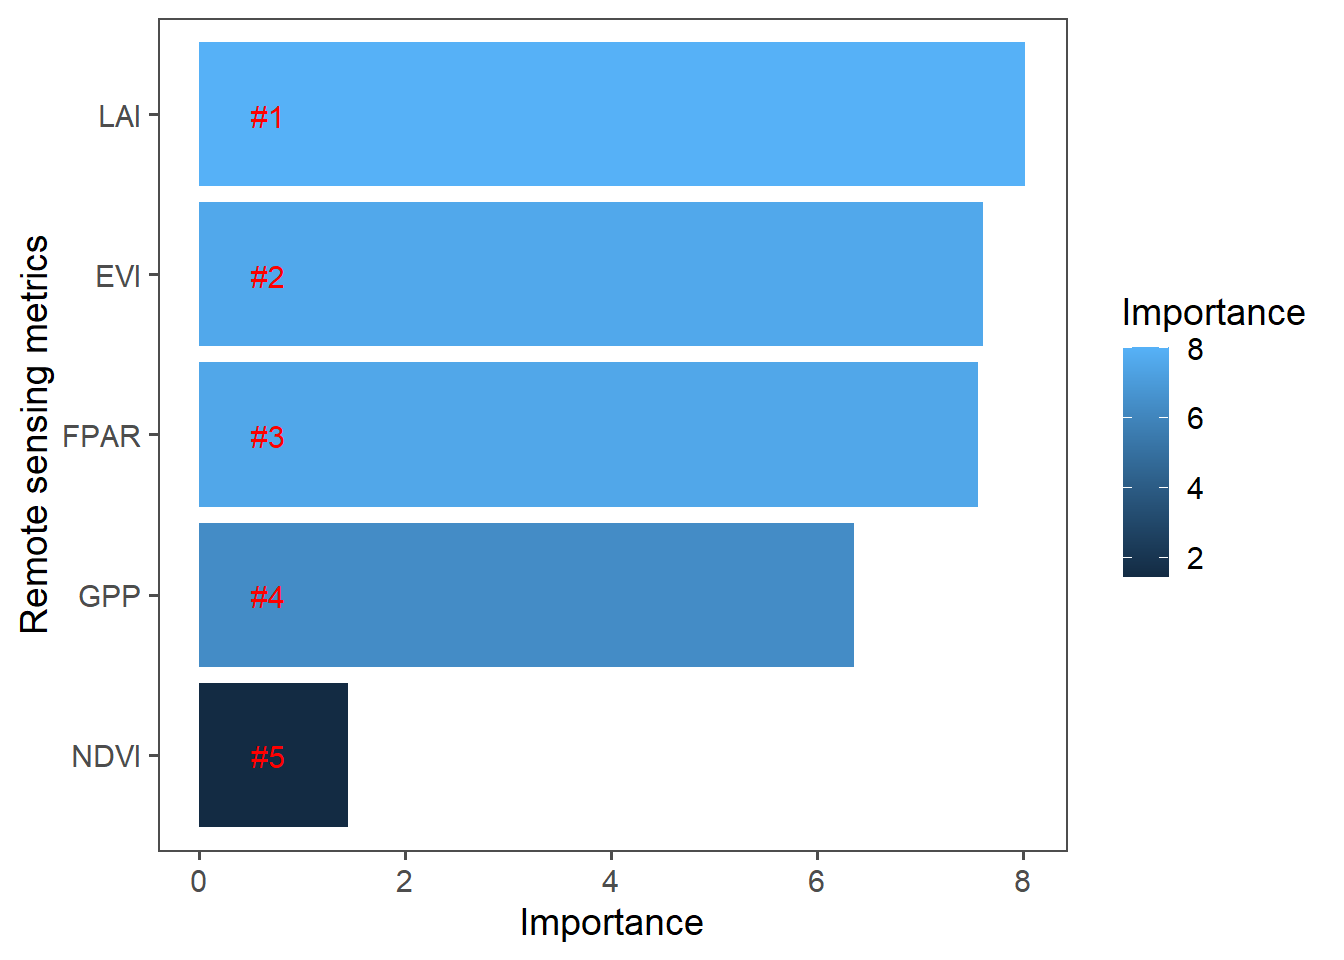
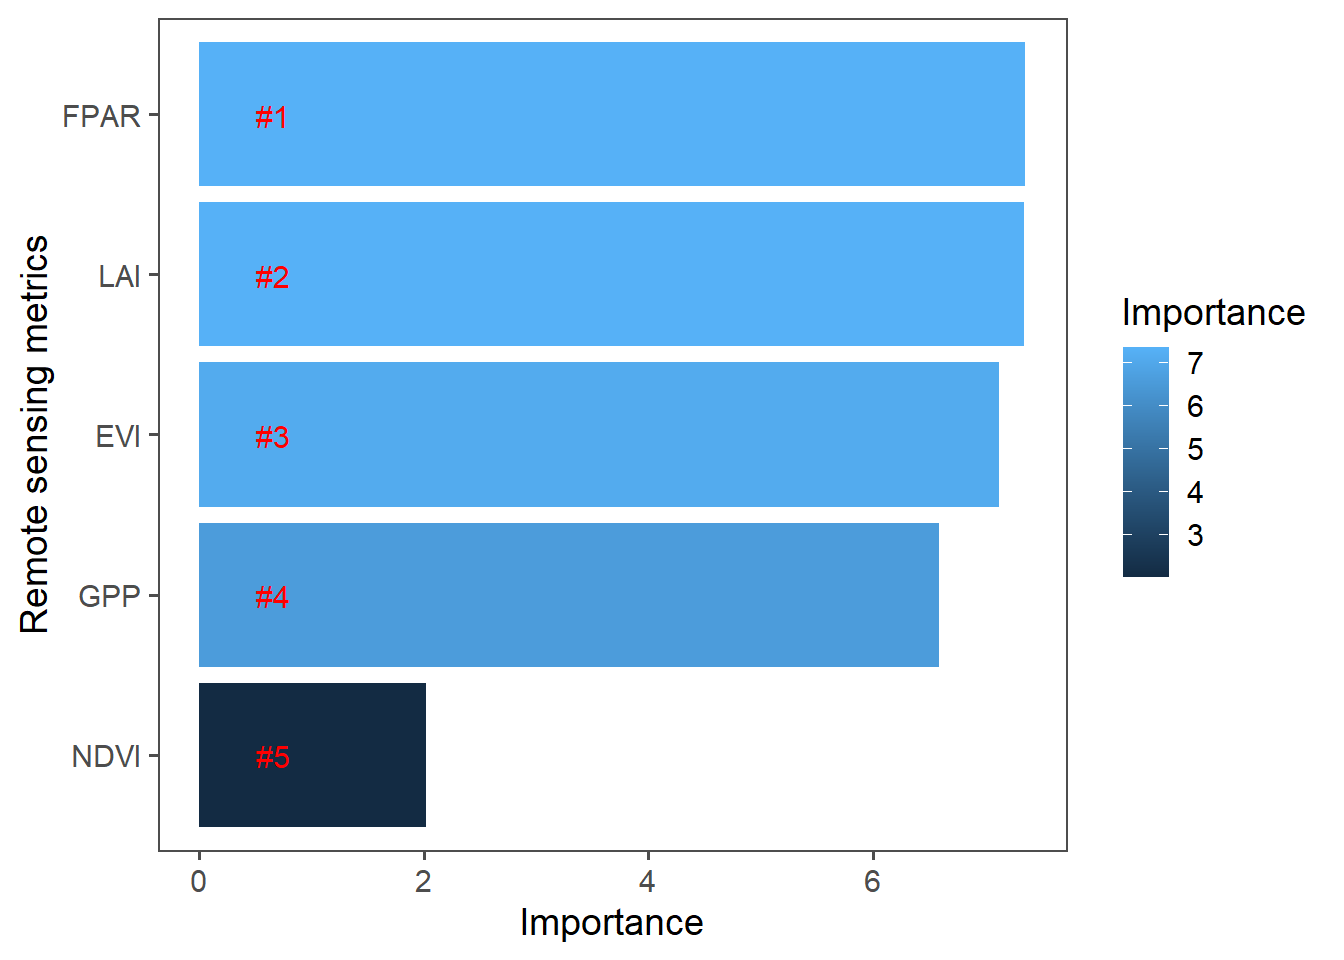
--Updates

diff --git a/yield.html b/yield.html
@@ -650,11 +650,11 @@ rf = randomForest(Yield_tonnes~., data=data[, -1], importance=TRUE, ntree = 500)
 importance &lt;- importance(rf)
 importance</code></pre>
 <pre><code>##       %IncMSE IncNodePurity
-## NDVI 1.444039    1566907492
-## EVI  7.605693    1764283558
-## FPAR 7.564089    2032271516
-## LAI  8.017084    1974147276
-## GPP  6.360913    1547766612</code></pre>
+## NDVI 2.023014    1598126228
+## EVI  7.126598    1709219119
+## FPAR 7.355854    1753478416
+## LAI  7.348654    1896365793
+## GPP  6.589853    1772987638</code></pre>
 <pre class="r"><code>rf</code></pre>
 <pre><code>## 
 ## Call:
@@ -663,8 +663,8 @@ importance</code></pre>
 ##                      Number of trees: 500
 ## No. of variables tried at each split: 1
 ## 
-##           Mean of squared residuals: 356485559
-##                     % Var explained: 41.35</code></pre>
+##           Mean of squared residuals: 363342792
+##                     % Var explained: 40.22</code></pre>
 <pre class="r"><code>varImportance &lt;- data.frame(Variables = row.names(importance), 
                             Importance = round(importance[ ,&#39;%IncMSE&#39;],2))
 
@@ -725,11 +725,11 @@ summary(p.lm)</code></pre>
 rf = randomForest(Yield_tonnes~., data=train, importance=TRUE, ntree = 500)
 importance(rf)</code></pre>
 <pre><code>##       %IncMSE IncNodePurity
-## NDVI 3.710056     765252236
-## EVI  5.604258     707891238
-## FPAR 3.959830     868635168
-## LAI  4.556663     673492076
-## GPP  2.949243     790463031</code></pre>
+## NDVI 3.775943     760541215
+## EVI  4.924809     664381150
+## FPAR 4.038208     953335597
+## LAI  3.036205     655371315
+## GPP  4.337149     796134782</code></pre>
 <pre class="r"><code>rf</code></pre>
 <pre><code>## 
 ## Call:
@@ -738,8 +738,8 @@ importance(rf)</code></pre>
 ##                      Number of trees: 500
 ## No. of variables tried at each split: 1
 ## 
-##           Mean of squared residuals: 399536586
-##                     % Var explained: 7.8</code></pre>
+##           Mean of squared residuals: 398422113
+##                     % Var explained: 8.06</code></pre>
 <pre class="r"><code>#SVM https://rstudio-pubs-static.s3.amazonaws.com/280840_d4fb4f186d454d5dbce3ba2cbe4bbcdb.html#tune-svm-regression-model
 library(e1071)
 svm = svm(Yield_tonnes~., data=train, kernel=&quot;radial&quot;)
@@ -771,7 +771,7 @@ tuneResult</code></pre>
 ##  epsilon cost
 ##        0  0.5
 ## 
-## - best performance: 454040625</code></pre>
+## - best performance: 455161619</code></pre>
 <pre class="r"><code>plot(tuneResult)</code></pre>
 <p><img src="yield_files/figure-html/y8-1.png" width="672" /></p>
 <p>From the SVM tuning graph we can see that the darker the region is the better our model is (because the RMSE is closer to zero in darker regions).</p>
@@ -804,9 +804,9 @@ rmse(observed_y-lm_y)</code></pre>
 <pre><code>## [1] 56.53507</code></pre>
 <pre class="r"><code>#RMSE from random Forest
 rmse(observed_y-rf_y)</code></pre>
-<pre><code>## [1] 19753.25</code></pre>
+<pre><code>## [1] 20048.64</code></pre>
 <pre class="r"><code>MAPE(observed_y, rf_y)</code></pre>
-<pre><code>## [1] 22.26277</code></pre>
+<pre><code>## [1] 22.38854</code></pre>
 <pre class="r"><code>#RMSE from SVM not tuned
 rmse(observed_y-svm_y)</code></pre>
 <pre><code>## [1] 30644.81</code></pre>
@@ -823,9 +823,9 @@ newdata &lt;- index[index$Year==2020, ]
 rf_y &lt;- predict(rf, newdata)
 rf_y</code></pre>
 <pre><code>##       21 
-## 92674.83</code></pre>
+## 92500.98</code></pre>
 <p>The predicted maize yield for the year 2020 is 94010.84 tonnes.</p>
-<p><a href="index.html">PREVIOUS PAGE</a>.</p>
+<p><a href="index.html"><strong>PREVIOUS PAGE</strong></a>.</p>
 </div>
 
 <p> Created 14th May 2021 Copyright &copy; Benson Kenduiywo, Inc. All rights reserved.</p>

diff --git a/indices.html b/indices.html
@@ -484,7 +484,7 @@ scores &lt;- apply(index[,-1], 2, zscore)
 scores &lt;- cbind(index[,&quot;Year&quot;], scores)
 colnames(scores)[1] &lt;- &quot;Year&quot;
 saveRDS(scores, paste0(root,&#39;outputs/2000_2020_MODIS_st_indices.rds&#39;))</code></pre>
-<p><a href="MODISprocessing.html">PREVIOUS PAGE</a> &lt;&lt;&lt; &gt;&gt;&gt; <a href="yield.html">NEXT PAGE</a>.</p>
+<p><a href="MODISprocessing.html"><strong>PREVIOUS PAGE</strong></a> &lt;&lt;&lt; &gt;&gt;&gt; <a href="yield.html"><strong>NEXT PAGE</strong></a>.</p>
 </div>
 
 <p> Created 14th May 2021 Copyright &copy; Benson Kenduiywo, Inc. All rights reserved.</p>

diff --git a/MODISprocessing.html b/MODISprocessing.html
@@ -600,7 +600,7 @@ length(n)</code></pre>
     writeRaster(out, filename, overwrite=TRUE)
   }
 }</code></pre>
-<p><a href="modis.html">PREVIOUS PAGE</a> &lt;&lt;&lt; &gt;&gt;&gt; <a href="indices.html">NEXT PAGE</a>.</p>
+<p><a href="modis.html"><strong>PREVIOUS PAGE</strong></a> &lt;&lt;&lt; &gt;&gt;&gt; <a href="indices.html"><strong>NEXT PAGE</strong></a>.</p>
 </div>
 
 <p> Created 14th May 2021 Copyright &copy; Benson Kenduiywo, Inc. All rights reserved.</p>
